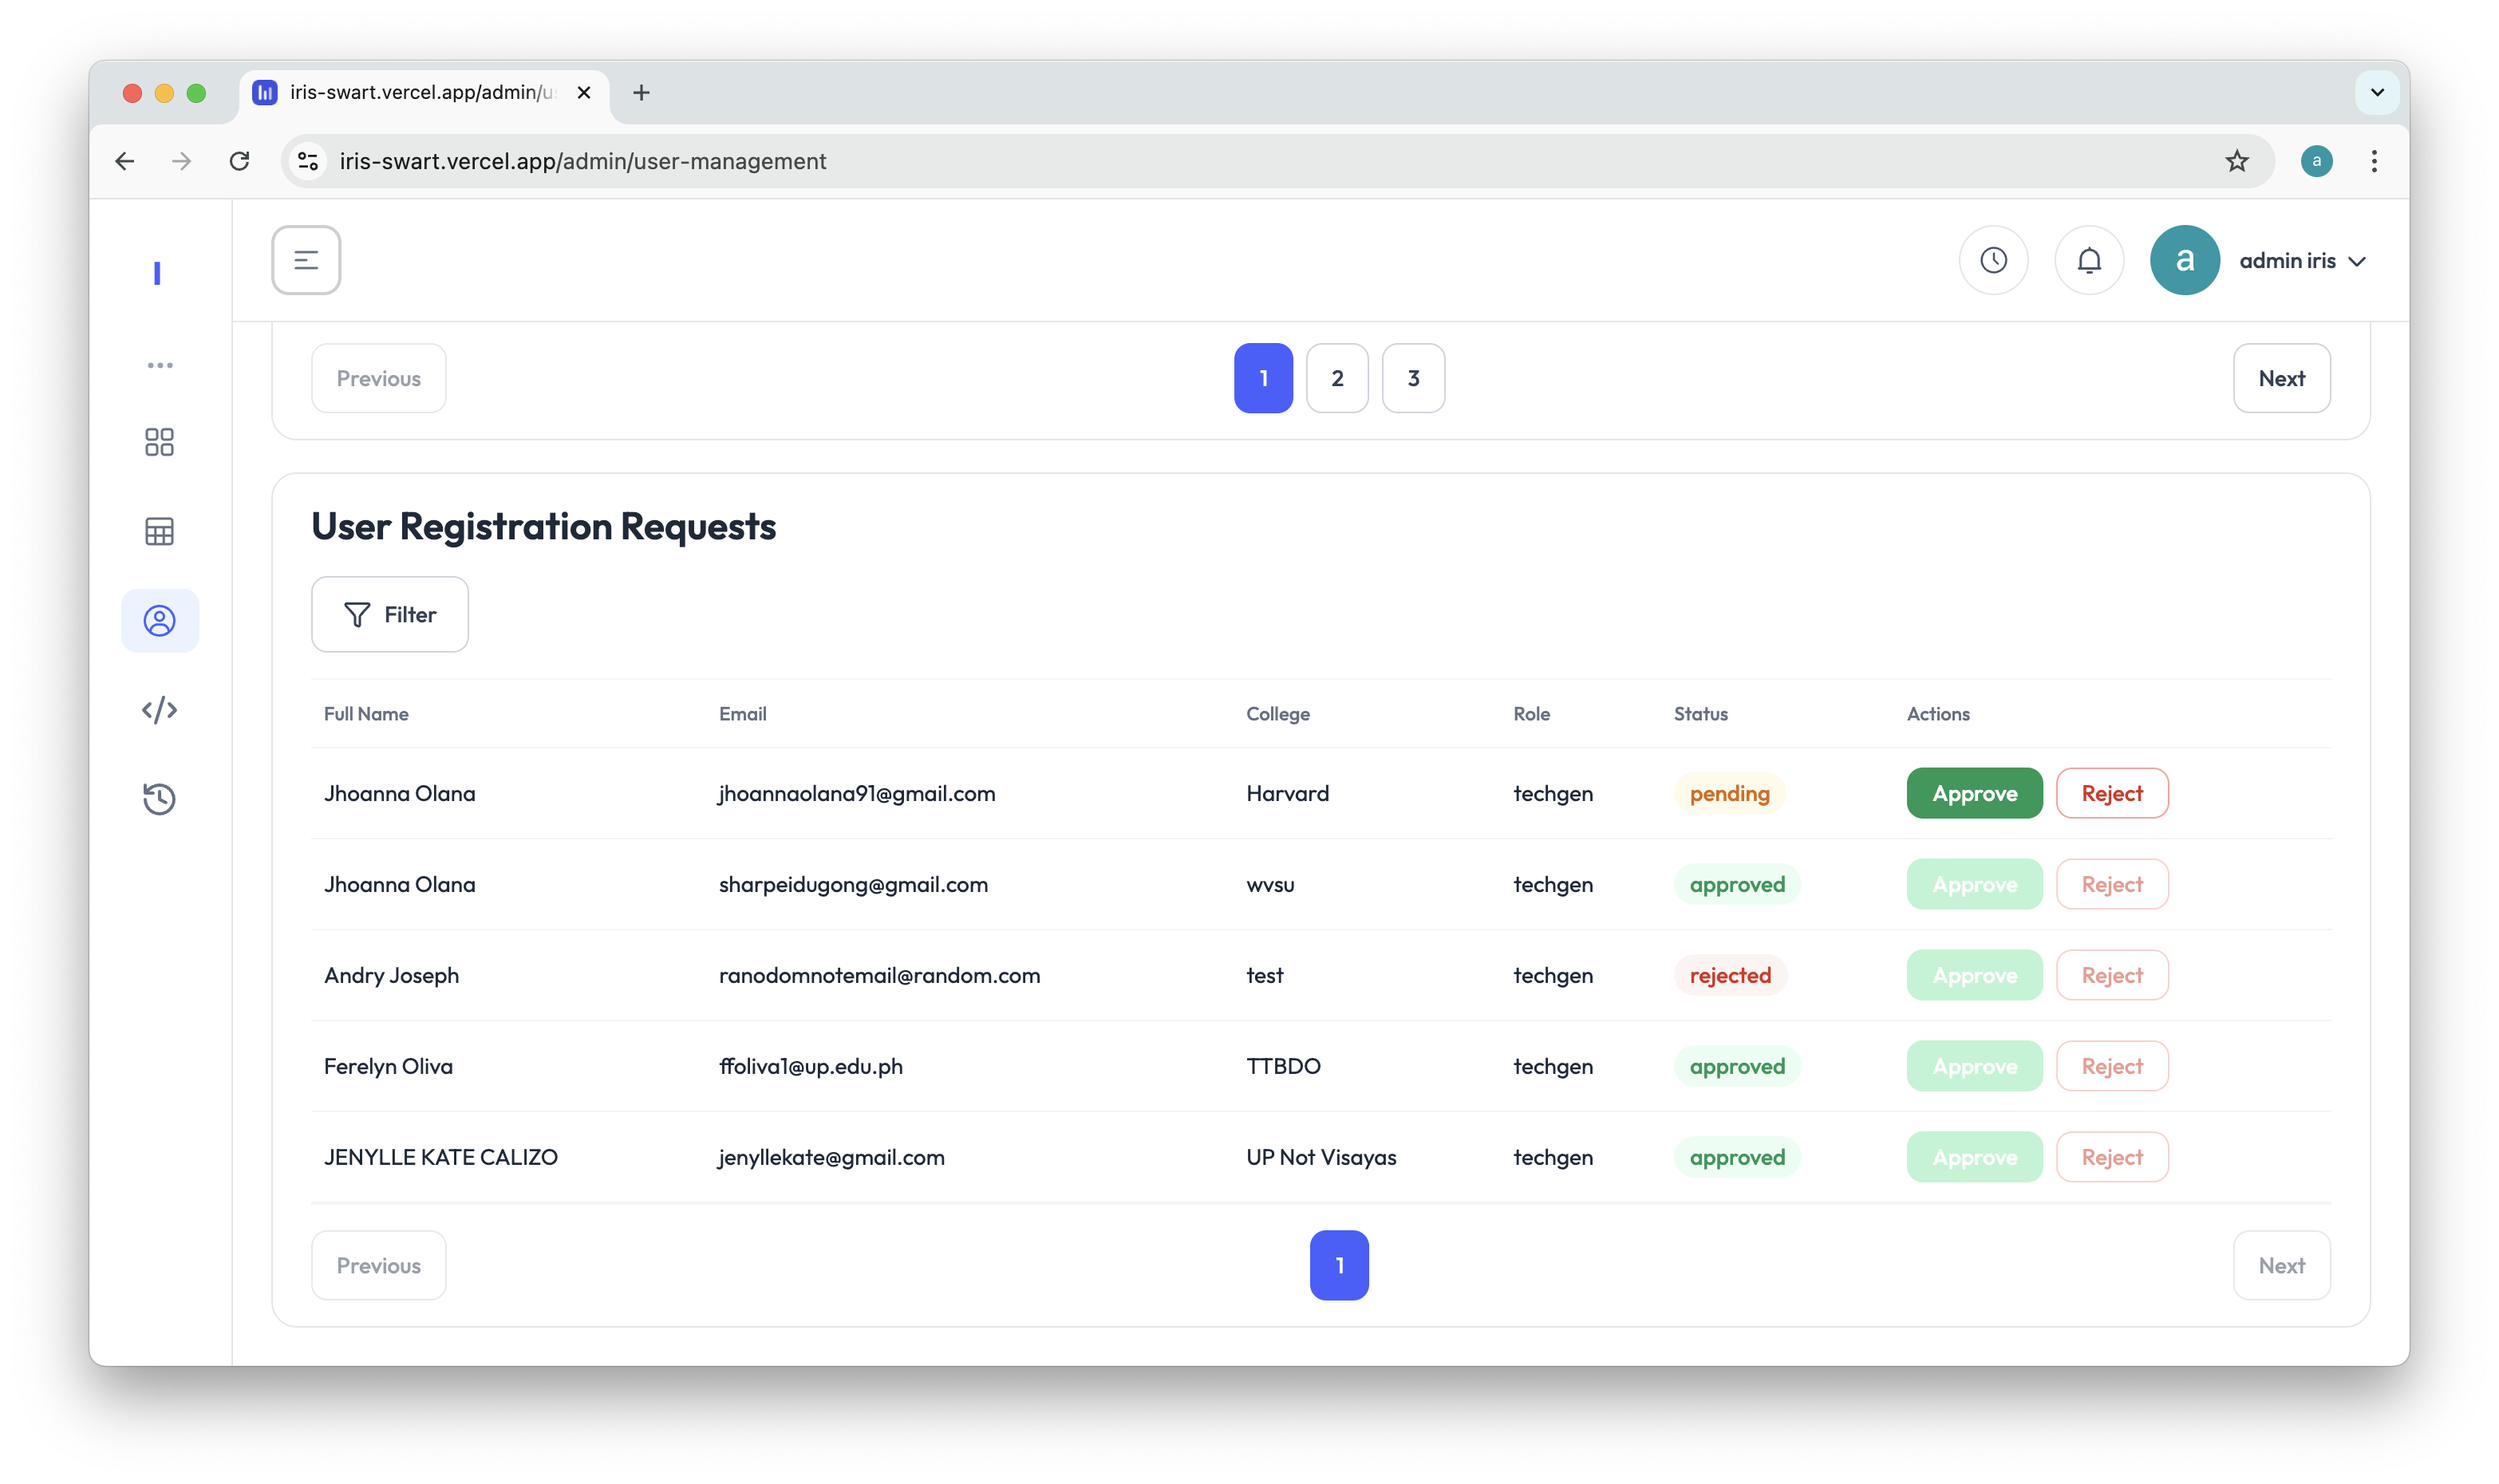
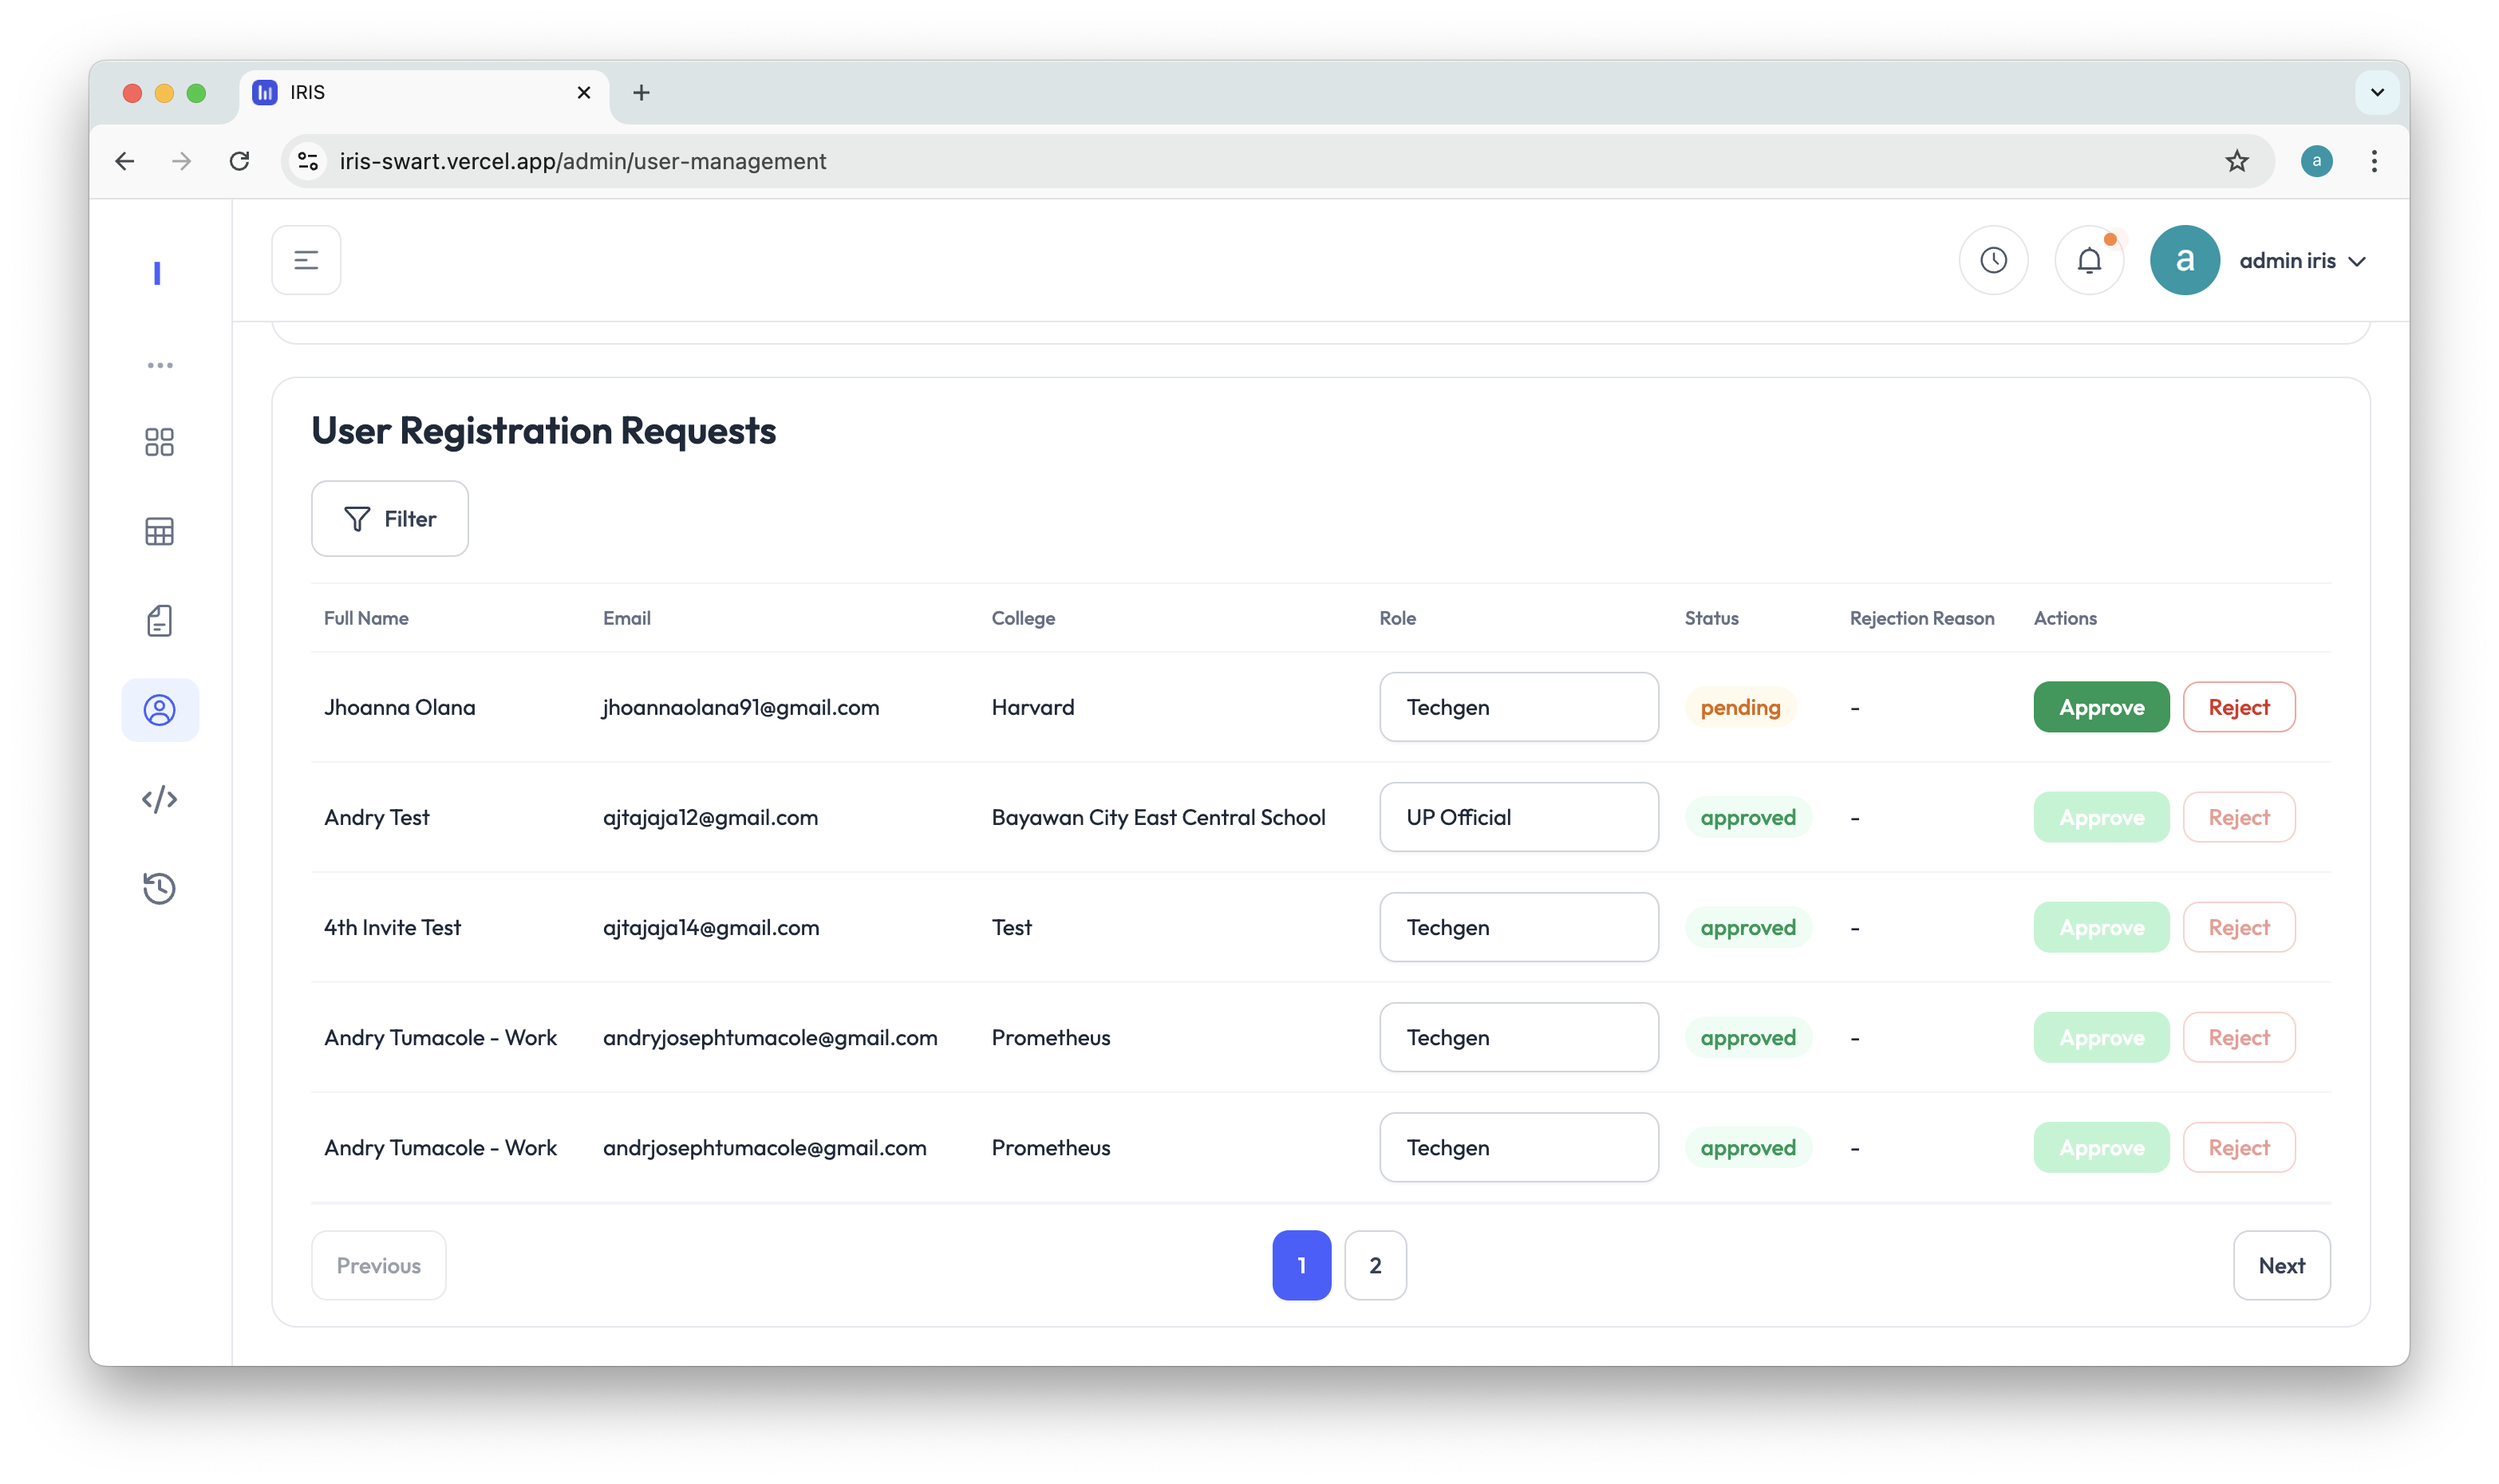
[Olana][Paper] User Role Change, Public Doc Management for Admins

diff --git a/paper/chapter_4.tex b/paper/chapter_4.tex
@@ -535,8 +535,24 @@ The User Registration Requests table displays submitted registration requests, i
 
 \begin{figure}[H]                
     \centering 
-    \includegraphics[width=0.85\textwidth]{user_management/registration_requests.png}     
-    \caption[User Registration Requests Table]{User Registration Requests Table. This table shows pending sign-up requests submitted by unregistered users. Administrators can review the user's name, email address, and college, modify the assigned role if needed, and approve or reject the request.}
+
+    \begin{subfigure}{0.85\textwidth}
+        \centering
+        \includegraphics[width=\linewidth]{user_management/registration_requests.png}
+        \caption{}
+        \label{fig:user_registration_requests_table}
+    \end{subfigure}
+
+    \vspace{0.8em}
+
+    \begin{subfigure}{0.85\textwidth}
+        \centering
+        \includegraphics[width=\linewidth]{user_management/registration_requests_approval.png}
+        \caption{}
+        \label{fig:user_registration_requests_approval}
+    \end{subfigure}
+
+    \caption[User Registration Requests Table]{User Registration Requests Table. This figure shows (a) the pending sign-up requests submitted by unregistered users and (b) the approval confirmation modal where administrators can confirm the request and change the assigned role before approval.}
     \label{fig:user_registration_requests}                 
 \end{figure}
 
@@ -604,15 +620,22 @@ The sorting options include sorting by filing date, IP title, date added, and da
 \end{figure}
 
 \subsection{Application Documents}
-The Application Documents page provides a centralized location for users to view the relevant IP disclosure forms for each IP type. This page can be viewed by both guests and technology generators. Through this page, users can identify the required forms and documents needed for the IP application process.
+The Application Documents page provides a centralized location for viewing the relevant IP disclosure forms for each IP type. Through this page, users can identify the required forms and documents needed for the IP application process.
 
-For technology generators, the page includes a start application call-to-action button that redirects the user to the new application page.
+Guests can view the available public documents as reference materials and are guided to review the files or use the application wizard to identify the appropriate IP type. Technology generators have the same view, with an additional start application call-to-action button that redirects them to the new application page. TTBDO admins can manage the public document list by uploading new documents, updating existing document details or files, and deleting documents that should no longer appear on the page.
 
 \begin{figure}[H]                
     \centering 
     \includegraphics[width=0.85\textwidth]{application_documents.png}     
-    \caption[Application Documents Page]{Application Documents Page. The page shows the available IP disclosure forms for each IP type, provides a centralized reference for required application documents, and includes a start application button.}
+    \caption[Application Documents Page]{Application Documents Page. The page shows the available IP disclosure forms and public documents for each IP type, providing guests with reference materials and guidance for reviewing the application process.}
     \label{fig:documents}
+\end{figure}
+
+\begin{figure}[H]                
+    \centering 
+    \includegraphics[width=0.85\textwidth]{application_documents_admin.png}     
+    \caption[Administrator Application Documents Page]{Administrator Application Documents Page. This page allows TTBDO admins to upload, update, and delete public application documents shown in IRIS.}
+    \label{fig:documents_admin}
 \end{figure}
 
 \subsection{Application Guide}
